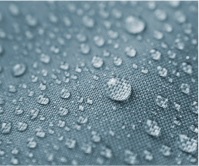
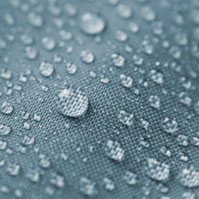
update for desktop

diff --git a/glass-surfaces.html b/glass-surfaces.html
@@ -72,7 +72,11 @@
       <div class="card-img-overlay position-relative p-0">
 
         <div class="d-flex justify-content-center flex-column">
-          <img src="assets/images/glass-bg.jpg" />
+          <picture>
+            <source media="(min-width: 700px)" srcset="assets/images/glass-cover.jpg">     
+            <!-- <source media="(min-width: 450px)" srcset="assets/images/glass-cover.jpg">      -->
+            <img src="assets/images/glass-bg.jpg" alt="glass" style="width:100%;">
+        </picture>
           <div class="heroText glassText position-absolute">Glass Surfaces Protection</div>
         </div>
         <div class="surfacesLink">
@@ -90,7 +94,7 @@
     </div>
   </section>
   <main>
-    <section id="glassFeature">
+    <section id="glassFeature" class="d-flex justify-content-between flex-column flex-md-row">
       <div class="featureListing">
         <div class="featurhead">
           <h2>Glass Surfaces
@@ -145,24 +149,24 @@
           </div>
         </div>
 
-        </p>
-      </div>
-      <div class="productWrap d-flex justify-content-between align-items-start">
-        <div class="product-info">
-          <h3>Glass Surfaces <br>Anti-Fog (GL702)</h3>
-          <p>This is sample text only and will be replaced
-            with actual text after this is approved.</p>
-            <small>400ml</small>
-            <div class="rate">sar <span>299.00</span></div>
-            <div class="qty mb-1 d-flex justify-content-center align-items-center">
-              <button>-</button>
-              <input type="text" value="1">
-              <button>+</button>
-            </div>
-            <div class="mt-2"><a href="#" class="btn-cart">Add to cart</a></div>
+        <div class="productWrap mr-top d-flex justify-content-between align-items-start">
+          <div class="product-info">
+            <h3>Glass Surfaces <br>Anti-Fog (GL702)</h3>
+            <p>This is sample text only and will be replaced
+              with actual text after this is approved.</p>
+              <small>400ml</small>
+              <div class="rate">sar <span>299.00</span></div>
+              <div class="qty mb-1 d-flex justify-content-center align-items-center">
+                <button>-</button>
+                <input type="text" value="1">
+                <button>+</button>
+              </div>
+              <div class="mt-2"><a href="#" class="btn-cart">Add to cart</a></div>
+          </div>
+          <div class="product-img"><img src="assets/images/product-1.jpg" class="img-fluid" alt="product"></div>
         </div>
-        <div class="product-img"><img src="assets/images/product-1.jpg" class="img-fluid" alt="product"></div>
       </div>
+      
       <div class="featureListing">
         <div class="featurhead">
           <h2>Glass Surfaces
@@ -228,25 +232,25 @@
           </div>
         </div>
 
-        </p>
-      </div>
-      <div class="productWrap d-flex justify-content-between align-items-start">
-        <div class="product-info">
-          <h3>Glass Surfaces<br>
-            protection (GL704)</h3>
-          <p>This is sample text only and will be replaced
-            with actual text after this is approved.</p>
-            <small>400ml</small>
-            <div class="rate">sar <span>299.00</span></div>
-            <div class="qty mb-1 d-flex justify-content-center align-items-center">
-              <button>-</button>
-              <input type="text" value="1">
-              <button>+</button>
-            </div>
-            <div class="mt-2"><a href="#" class="btn-cart">Add to cart</a></div>
+        <div class="productWrap d-flex justify-content-between align-items-start">
+          <div class="product-info">
+            <h3>Glass Surfaces<br>
+              protection (GL704)</h3>
+            <p>This is sample text only and will be replaced
+              with actual text after this is approved.</p>
+              <small>400ml</small>
+              <div class="rate">sar <span>299.00</span></div>
+              <div class="qty mb-1 d-flex justify-content-center align-items-center">
+                <button>-</button>
+                <input type="text" value="1">
+                <button>+</button>
+              </div>
+              <div class="mt-2"><a href="#" class="btn-cart">Add to cart</a></div>
+          </div>
+          <div class="product-img"><img src="assets/images/product-1.jpg" class="img-fluid" alt="product"></div>
         </div>
-        <div class="product-img"><img src="assets/images/product-1.jpg" class="img-fluid" alt="product"></div>
       </div>
+      
 
     </section>
 
@@ -278,7 +282,7 @@
             <img src="assets/images/logo.svg" width="180" class="img-flui position-relative" alt="logo">
           </div>
         </div>
-        <div class="col-md-8 col-lg-8 col-12 pt-5">
+        <div class="col-md-8 col-lg-8 col-12 pt-5 px-md-5 px-3">
           <div class="footerAction py-4">
             <div class="row">
               <div class="col-md-4 col-lg-4 col-6">
@@ -306,7 +310,7 @@
                 </div>
               </div>
               <div class="col-md-4 col-lg-4 col-12">
-                <div class="footerLinks socilaMedia text-center py-4">
+                <div class="footerLinks socilaMedia text-center py-md-0 py-4">
                   <h3>social media</h3>
                   <div class="social-icon d-flex justify-content-center">
                     <a href="#" target="_blank"><img src="assets/images/fb.svg" width="20" alt="sfb"></a>
@@ -322,14 +326,14 @@
                       <button type="submit">subscribe</button>
                     </form>
                   </div>
-                  <div class="row mt-3">
-                    <div class="col">
+                  <div class="row mt-3 d-md-none d-flex">
+                    <div class="col-6">
                       <div class="certify">
                         <Small>Certified by:</small>
                         <img src="assets/images/certify.png" class="img-fluid" alt="logo">
                       </div>
                     </div>
-                    <div class="col">
+                    <div class="col-6">
                       <div class="certify">
                         <small>Complies with:</small>
                         <img src="assets/images/compile.png" class="img-fluid" alt="logo">
@@ -339,6 +343,20 @@
 
 
                   </div>
+                </div>
+              </div>
+            </div>
+            <div class="row mt-3 d-none d-md-flex">
+              <div class="col">
+                <div class="certify">
+                  <Small>Certified by:</small>
+                  <img src="assets/images/certify.png" class="img-fluid" alt="logo">
+                </div>
+              </div>
+              <div class="col">
+                <div class="certify">
+                  <small>Complies with:</small>
+                  <img src="assets/images/compile.png" class="img-fluid" alt="logo">
                 </div>
               </div>
             </div>

diff --git a/index.html b/index.html
@@ -70,10 +70,9 @@
   <section id="heroarea">
     <div class="card bg-dark text-white border-0 rounded-0 herobg">
       <div class="card-img-overlay position-relative p-0">
-        <div class="d-flex justify-content-center justify-content-md-between align-items-start flex-column flex-md-row">
+        <div class="d-flex justify-content-center align-items-start flex-column">
           <div class="assets-icon">
-            <div
-              class="d-flex justify-content-center justify-content-md-start align-items-center flex-row flex-md-column">
+            <div class="d-flex justify-content-center align-items-center w-100 m-auto">
               <div class="home-icon"><img src="assets/images/asset-1.png" class="img-fluid" alt="assets 1"></div>
               <div class="home-icon"><img src="assets/images/asset-2.png" class="img-fluid" alt="assets 2"></div>
               <div class="home-icon"><img src="assets/images/asset-6.png" class="img-fluid" alt="assets 3"></div>
@@ -535,7 +534,7 @@
             <img src="assets/images/logo.svg" width="180" class="img-flui position-relative" alt="logo">
           </div>
         </div>
-        <div class="col-md-8 col-lg-8 col-12 pt-5 px-md-5 px-2">
+        <div class="col-md-8 col-lg-8 col-12 pt-5 px-md-5 px-3">
           <div class="footerAction py-4">
             <div class="row">
               <div class="col-md-4 col-lg-4 col-6">
@@ -563,7 +562,7 @@
                 </div>
               </div>
               <div class="col-md-4 col-lg-4 col-12">
-                <div class="footerLinks socilaMedia text-center py-4">
+                <div class="footerLinks socilaMedia text-center py-md-0 py-4">
                   <h3>social media</h3>
                   <div class="social-icon d-flex justify-content-center">
                     <a href="#" target="_blank"><img src="assets/images/fb.svg" width="20" alt="sfb"></a>
@@ -579,14 +578,14 @@
                       <button type="submit">subscribe</button>
                     </form>
                   </div>
-                  <div class="row mt-3">
-                    <div class="col">
+                  <div class="row mt-3 d-md-none d-flex">
+                    <div class="col-6">
                       <div class="certify">
                         <Small>Certified by:</small>
                         <img src="assets/images/certify.png" class="img-fluid" alt="logo">
                       </div>
                     </div>
-                    <div class="col">
+                    <div class="col-6">
                       <div class="certify">
                         <small>Complies with:</small>
                         <img src="assets/images/compile.png" class="img-fluid" alt="logo">
@@ -596,6 +595,20 @@
 
 
                   </div>
+                </div>
+              </div>
+            </div>
+            <div class="row mt-3 d-none d-md-flex">
+              <div class="col">
+                <div class="certify">
+                  <Small>Certified by:</small>
+                  <img src="assets/images/certify.png" class="img-fluid" alt="logo">
+                </div>
+              </div>
+              <div class="col">
+                <div class="certify">
+                  <small>Complies with:</small>
+                  <img src="assets/images/compile.png" class="img-fluid" alt="logo">
                 </div>
               </div>
             </div>

diff --git a/assets/css/layout.css b/assets/css/layout.css
@@ -108,41 +108,44 @@ body {
 }
 
 .glassbg {
-    background: url('../images/glass-bg.jpg') no-repeat center center;
+    background: unset;
     background-size: cover;
-    min-height: 460px;
+    
 }
-
-
-
-
-
 .assets-icon {
     background-color: rgba(0, 0, 0, 0.5);
-    padding: 0.3rem;
+    padding: 0;
+    width: 100%;
 }
 
 .assets-icon>div>.home-icon {
     transform: scale(0.95);
-    padding: 0.3rem 0;
+    padding: 0.3rem;
 
 }
 
 .chatIcon {
     position: fixed;
     bottom: 2rem;
-    right: 2rem;
-    background-color: rgba(0, 0, 0, 0.5);
+    left: 2rem;
+    
     padding: 0.2rem;
     border-radius: 3px;
     z-index: 1;
 }
 .chatIcon a{
     font-size: 13px;
-    color: #fff;
+    color: #fff;    
     text-decoration: none;
     margin: 0 auto;
     align-items: center;
+}
+.chatIcon a span {
+    background-color: rgba(0, 0, 0, 0.5);
+    line-height: 1;
+    padding: 0.1rem 0.3rem;
+    border-radius: 7px;
+    font-size: 0.7rem;
 }
 
 .heroText {
@@ -162,12 +165,14 @@ body {
     text-transform: capitalize !important;
     font-size: 2.8rem !important;
     line-height: 1 !important;
+    padding-top: 9rem;
+    width: 100%;
     text-shadow: 1px 1px 3px rgba(0, 0, 0, 0.8);
 }
 
 .trylucky {
     position: absolute;
-    top: 2rem;
+    top: 8rem;
     right: 2rem;
 }
 .trylucky a {
@@ -189,19 +194,19 @@ body {
 }
 
 .surfacesLink {
-    background-color: transparent;
+    background-color: #000;
     position: fixed;
     display: flex;
     justify-content: start;
     align-items: center;
     z-index: 1;
-    top: 82px;
-    flex-wrap: wrap;
+    top: 133px;
+    flex-wrap: nowrap;
+    width: 100%;
 }
 
-.surfacesLink .links {
-    width: 50px;
-    height: 40px;
+.surfacesLink .links {    
+    height: 100px;
     display: flex;
     justify-content: center;
     align-items: center;
@@ -216,7 +221,8 @@ body {
 .surfacesLink .links a {
     color: #fff;
     text-decoration: none;
-    font-size: 0.5rem;
+    font-size: 1rem;
+    font-family: 'Metropolis Bold';
     text-shadow: 1px 1px 2px #000;
     text-align: center;
     padding: 0.2rem 0.62rem;
@@ -1056,6 +1062,13 @@ body {
     background: url('../images/bgsection.png') #000 no-repeat center;
     background-size: cover;
 }
+.featureListing{
+    flex: 1 0 45%;
+    margin: 0px 2.5%;
+    display: flex;
+    flex-direction: column;
+    justify-content: start;
+}
 
 .featurhead {
     background-color: #000;
@@ -1142,6 +1155,9 @@ body {
 
 .productWrap {
     background-color: #fff;
+}
+.mr-top{
+    margin-top: 145px;
 }
 
 .product-info {

diff --git a/assets/css/responsive.css b/assets/css/responsive.css
@@ -207,6 +207,30 @@
   padding: 12rem 14%;
   clip-path: polygon(0% 42%, 100% 5%, 98% 100%, 0% 100%);
 }
+
+.surfacesLink {  
+  top: 82px;
+ }
+
+.surfacesLink .links {
+  width: 50px;
+  height: 40px; 
+}
+
+.surfacesLink .links.active {
+  border: 2px solid #FEBE10;
+}
+.surfacesLink .links a{
+  font-size: 0.5rem;
+}
+.featureListing{
+  flex: 1;
+  margin: 0
+}
+.mr-top{
+  margin-top: 0;
+}
+
 #surfaces .verticalHeading h3 {       
   padding: 0.5rem 10rem;      
   
